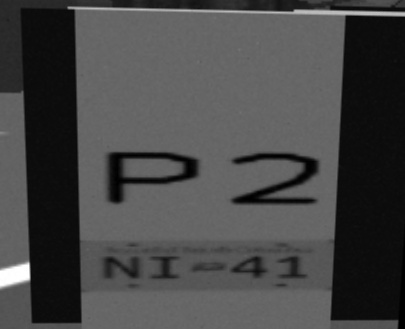
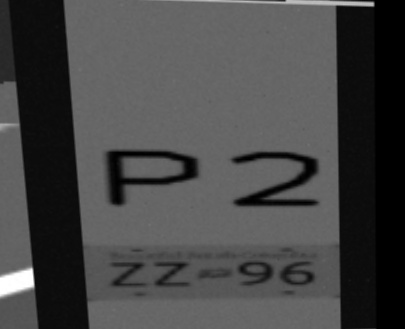
publisher

diff --git a/src/cnn_trainer/src/model/model.py b/src/cnn_trainer/src/model/model.py
@@ -78,7 +78,7 @@ def add_noise(img):
     # noise = np.random.normal(0, deviation, img.shape)
     # img += noise
 
-    blur_factor = random.randint(0,17)
+    blur_factor = random.randint(0,18)
 
     img = uniform_filter(img,size=(blur_factor,blur_factor,1))
     np.clip(img, 0., 255.)
@@ -269,7 +269,7 @@ def predict_test_set(plate, model, model_type):
 
 def main():
     # PARAMETERS TO ADJUST
-    TRAIN = True
+    TRAIN = False
     RESET_MODEL = False # BE CAREFUL WITH THIS.
     PREDICT = True
     AUGMENT = True
@@ -285,7 +285,7 @@ def main():
     VS_1 = 0.2
 
     # Number model parameters.
-    EPOCHS_2 = 10
+    EPOCHS_2 = 8
     VS_2 = 0.2
 
     # Generate model or retrieve model
@@ -307,15 +307,15 @@ def main():
         # Predict a plate if specified
         if PREDICT:
             plates = util.files_in_folder(util.PLATE_DIR)
-            plate_to_test = plates[10]
+            plate_to_test = plates[0]
             print("Testing ", plate_to_test)
             predict_plate(plate_to_test, model, MODEL_TYPE)
 
-            # # Predict from test set
-            # print("Testing from test set")
-            # test_plates = util.files_in_folder(util.TEST_PATH)
-            # for p in test_plates:
-            #     predict_test_set(p, model, MODEL_TYPE)
+            # Predict from test set
+            print("Testing from test set")
+            test_plates = util.files_in_folder(util.TEST_PATH)
+            for p in test_plates:
+                predict_test_set(p, model, MODEL_TYPE)
 
     elif MODEL_TYPE == 1: # This corresponds to the model for numbers
         if TRAIN:
@@ -338,15 +338,15 @@ def main():
 
         if PREDICT:
             plates = util.files_in_folder(util.PLATE_DIR)
-            plate_to_test = plates[150]
+            plate_to_test = plates[3]
             print("Testing ", plate_to_test)
             predict_plate(plate_to_test, model, MODEL_TYPE)
 
-            # # Predict from test set
-            # print("Testing from test set")
-            # test_plates = util.files_in_folder(util.TEST_PATH)
-            # for p in test_plates:
-            #     predict_test_set(p, model, MODEL_TYPE)
+            # Predict from test set
+            print("Testing from test set")
+            test_plates = util.files_in_folder(util.TEST_PATH)
+            for p in test_plates:
+                predict_test_set(p, model, MODEL_TYPE)
 
 
     else: # ur an idiot

diff --git a/src/mcqueen_controller/src/controller.py b/src/mcqueen_controller/src/controller.py
@@ -144,7 +144,7 @@ class PlateReader:
         self.stop_code = '-1'
 
     def publish_plate(self, car_number, plate_chars):
-        pub_string = self.id + self.password + car_number + ',' + plate_chars
+        pub_string = self.id + self.password + str(car_number) + ',' + str(plate_chars)
         self.plate_pub.publish(pub_string)
 
     def begin_comp(self):
@@ -177,7 +177,7 @@ def main(args):
     ic = ImageConverter(rm)
     hm = Homography(pr)
     
-    rospy.sleep(600)
+    rospy.sleep(250)
 
     # Stop the robot and the competition.
     rm.stop_robot()

diff --git a/src/mcqueen_controller/src/homography.py b/src/mcqueen_controller/src/homography.py
@@ -62,7 +62,7 @@ class Homography():
                 self.plate_num = self.plate_reference[str(pred_number)]
                 print(self.plate_num)
 
-                self.pr.publish_plate(self.plate_num, 'ABCD')
+                self.pr.publish_plate(pred_number, 'ABCD')
 
 
     # Method for generating homography on an image

diff --git a/src/cnn_trainer/src/plate_generator/plate_generator.py b/src/cnn_trainer/src/plate_generator/plate_generator.py
@@ -33,7 +33,7 @@ for i in range(0, 50):
         plate_alpha += (random.choice(string.ascii_uppercase))
 
     # Pick two random numbers
-    num = 80
+    num = 00
     #num = randint(0, 99)
     plate_num = "{:02d}".format(num)
 

diff --git a/src/cnn_trainer/src/model/car_model.py b/src/cnn_trainer/src/model/car_model.py
@@ -222,8 +222,8 @@ def predict_car(model, car):
 
 
 def main():
-    NEW_MODEL = True
-    TRAIN = True
+    NEW_MODEL = False
+    TRAIN = False
 
     EPOCHS = 20
     VS = 0.2
